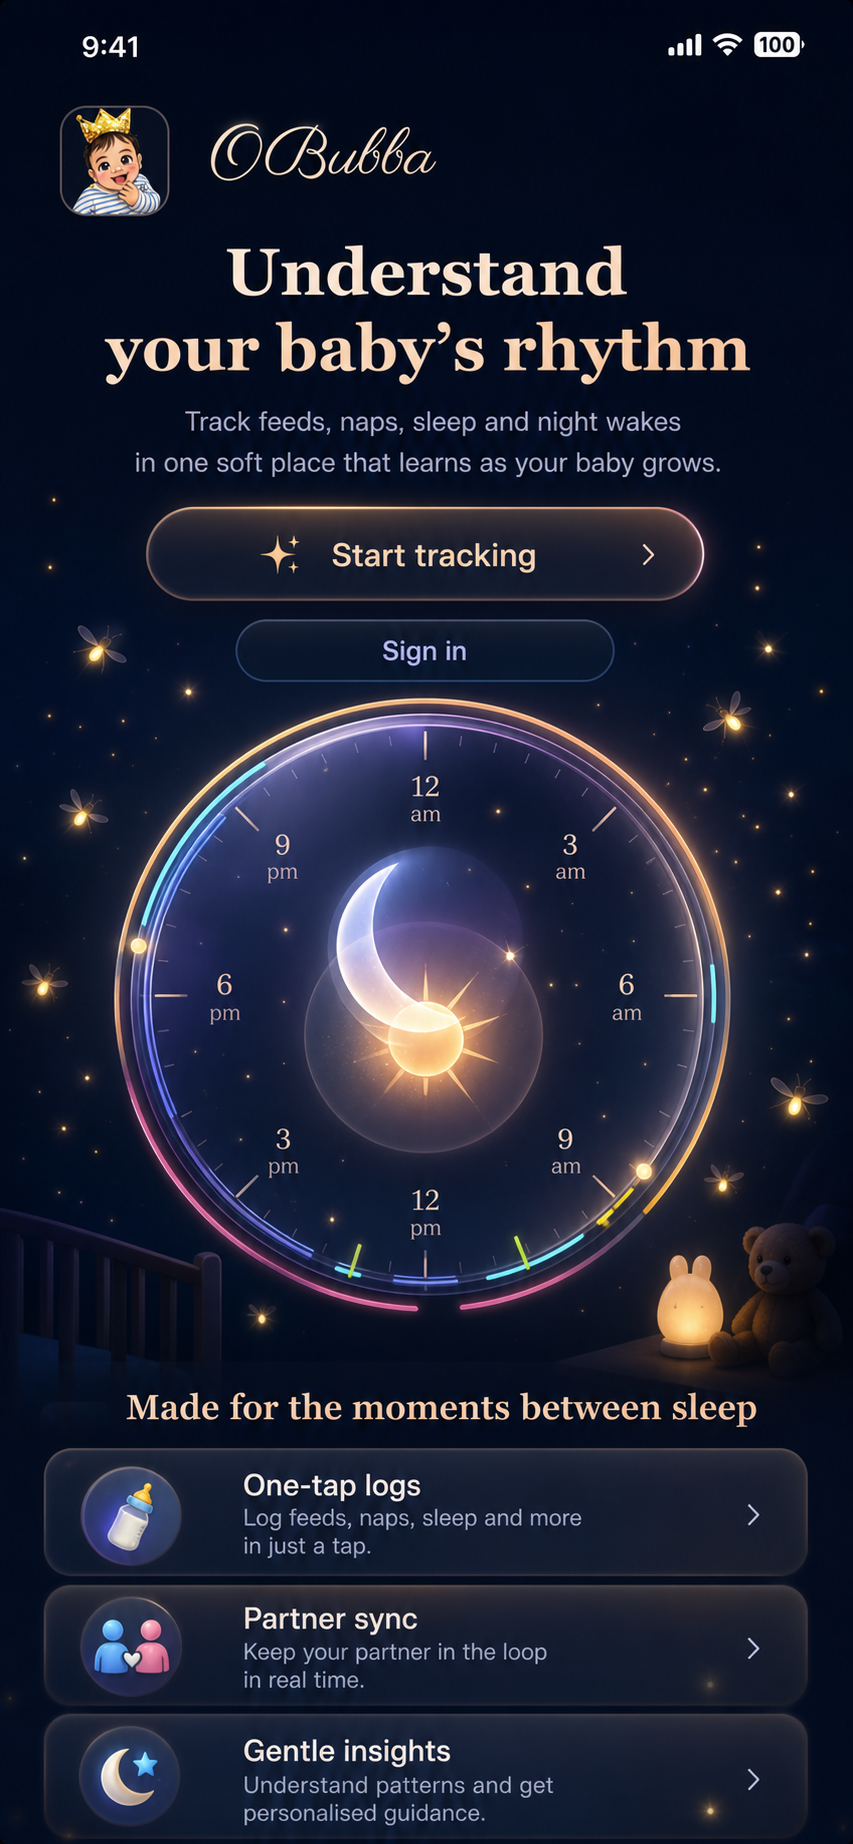
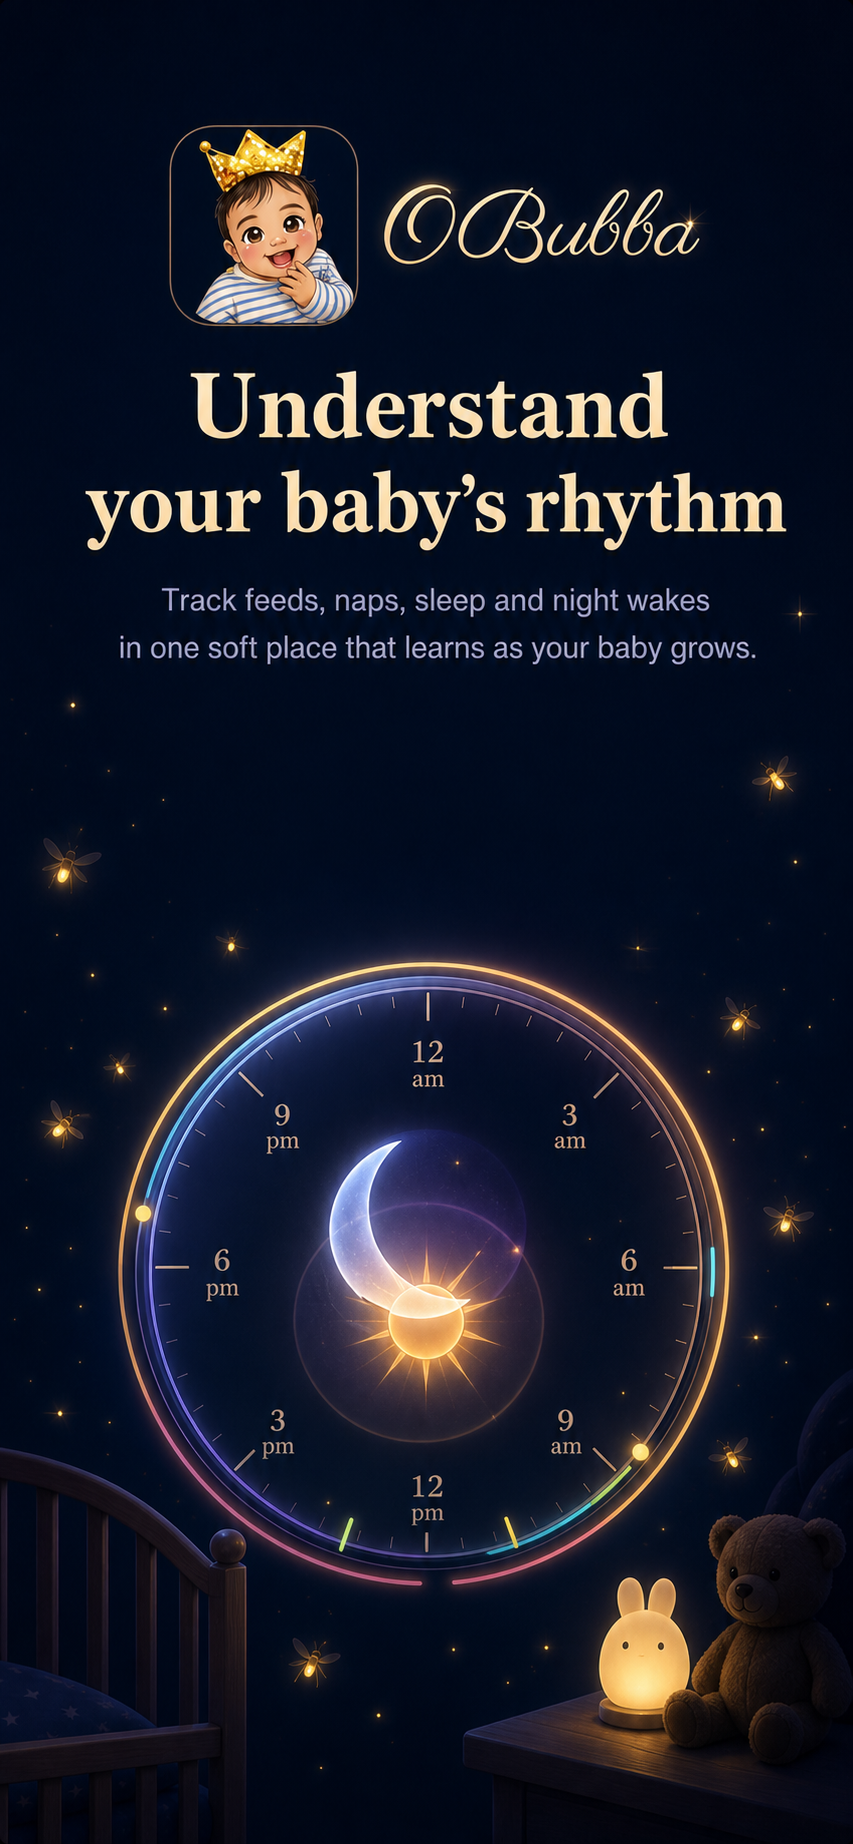
Use clean OBubba landing artwork

diff --git a/index.html b/index.html
@@ -25,23 +25,30 @@
     body{margin:0;min-height:100%;background:radial-gradient(circle at 50% 20%,rgba(33,57,112,.42),transparent 35rem),linear-gradient(180deg,#020814 0%,#06142d 54%,#020b1d 100%);color:#fff0dc;font-family:-apple-system,BlinkMacSystemFont,"Segoe UI",Roboto,Arial,sans-serif;-webkit-font-smoothing:antialiased;overflow-x:hidden}
     a{color:inherit}
     .page{min-height:100dvh}
-    .poster-shell{position:relative;width:100vw;max-width:430px;aspect-ratio:853/1450;margin:0 auto;background:#041026;box-shadow:0 0 80px rgba(14,51,116,.4);overflow:hidden}
-    .poster{display:block;width:100%;height:auto;user-select:none}
-    .download-now,.store-link{position:absolute;z-index:2;text-decoration:none;display:flex;align-items:center;justify-content:center;color:#fff3df;font-weight:900;letter-spacing:0;text-shadow:0 1px 10px rgba(0,0,0,.35)}
-    .download-now{left:17.1%;top:34.76%;width:65.8%;height:6.59%;gap:5%;border-radius:999px;border:1.6px solid rgba(232,165,145,.86);background:linear-gradient(180deg,rgb(78,89,130),rgb(32,43,78));box-shadow:inset 0 1px 0 rgba(255,255,255,.18),0 0 24px rgba(255,169,137,.25),0 16px 34px rgba(0,0,0,.3);font-size:clamp(18px,5.8vw,26px);white-space:nowrap}
+    .poster-shell{position:relative;width:100%;max-width:430px;aspect-ratio:853/1844;margin:0 auto;background:#041026;box-shadow:0 0 80px rgba(14,51,116,.4);overflow:hidden}
+    .poster{position:relative;z-index:0;display:block;width:82%;height:auto;margin:0 auto;user-select:none}
+    .float-firefly{position:absolute;z-index:2;width:7px;height:7px;border-radius:50%;background:#ffdc7a;box-shadow:0 0 13px 5px rgba(255,213,111,.58),0 0 42px 14px rgba(255,213,111,.22);pointer-events:none;animation:drift 7.5s ease-in-out infinite}
+    .float-firefly::before,.float-firefly::after{content:"";position:absolute;top:50%;width:15px;height:7px;border-radius:999px 999px 999px 0;border:1px solid rgba(255,239,207,.32);background:rgba(255,255,255,.08);filter:blur(.15px)}
+    .float-firefly::before{right:4px;transform:translateY(-55%) rotate(-28deg)}.float-firefly::after{left:4px;transform:translateY(-55%) rotate(28deg) scaleX(-1)}
+    .ff1{left:12%;top:38%;animation-delay:-1.1s}.ff2{left:86%;top:41%;animation-delay:-3.2s;transform:scale(.78)}.ff3{left:18%;top:55%;animation-delay:-4.8s;transform:scale(.7)}.ff4{left:76%;top:61%;animation-delay:-2.2s}.ff5{left:33%;top:84%;animation-delay:-5.7s;transform:scale(.68)}.ff6{left:71%;top:84%;animation-delay:-.7s;transform:scale(.74)}
+    @keyframes drift{0%,100%{translate:0 0;opacity:.72}38%{translate:10px -15px;opacity:1}70%{translate:-8px -4px;opacity:.78}}
+    .download-now,.store-link{position:absolute;z-index:4;text-decoration:none;display:flex;align-items:center;justify-content:center;color:#fff3df;font-weight:900;letter-spacing:0;text-shadow:0 1px 10px rgba(0,0,0,.35)}
+    .download-now{left:17.1%;top:39.35%;width:65.8%;height:5%;gap:5%;border-radius:999px;border:1.6px solid rgba(232,165,145,.86);background:linear-gradient(180deg,rgb(78,89,130),rgb(32,43,78));box-shadow:inset 0 1px 0 rgba(255,255,255,.18),0 0 24px rgba(255,169,137,.25),0 16px 34px rgba(0,0,0,.3);font-size:clamp(18px,5.8vw,26px);white-space:nowrap}
     .download-now .sparkle{width:clamp(30px,8.4vw,40px);height:clamp(30px,8.4vw,40px);filter:drop-shadow(0 0 13px rgba(255,221,147,.5))}
     .download-now .chevron{position:absolute;right:7%;width:clamp(18px,5vw,25px);height:clamp(18px,5vw,25px)}
-    .stores{position:absolute;z-index:3;left:13.8%;top:42.69%;width:72.4%;height:5.02%;display:grid;grid-template-columns:1fr 1fr;gap:3.8%}
+    .stores{position:absolute;z-index:5;left:13.8%;top:45.45%;width:72.4%;height:3.8%;display:grid;grid-template-columns:1fr 1fr;gap:3.8%}
     .stores::before{content:"";position:absolute;inset:-7% -2%;z-index:0;border-radius:999px;background:#071936}
     .store-link{position:relative;z-index:1;height:100%;border-radius:999px;border:1.2px solid rgba(92,124,178,.9);background:linear-gradient(180deg,rgb(19,36,76),rgb(11,25,57));box-shadow:inset 0 1px 0 rgba(255,255,255,.1),0 10px 26px rgba(0,0,0,.26);font-size:clamp(12px,3.45vw,16px);gap:8px;white-space:nowrap}
     .store-link svg{width:clamp(16px,4.3vw,22px);height:clamp(16px,4.3vw,22px)}
     .seo-copy{position:absolute;width:1px;height:1px;padding:0;margin:-1px;overflow:hidden;clip:rect(0,0,0,0);white-space:nowrap;border:0}
+    @media (max-width:520px){.poster-shell{max-width:none;margin:0}}
   </style>
 </head>
 <body>
   <main class="page">
     <div class="poster-shell">
       <img class="poster" src="/obubba-download-landing.png" alt="OBubba baby rhythm tracker preview with glowing clock and fireflies"/>
+      <span class="float-firefly ff1" aria-hidden="true"></span><span class="float-firefly ff2" aria-hidden="true"></span><span class="float-firefly ff3" aria-hidden="true"></span><span class="float-firefly ff4" aria-hidden="true"></span><span class="float-firefly ff5" aria-hidden="true"></span><span class="float-firefly ff6" aria-hidden="true"></span>
       <a class="download-now" id="download-now" href="https://apps.apple.com/gb/app/obubba/id6760968757" aria-label="Download OBubba now">
         <svg class="sparkle" viewBox="0 0 32 32" aria-hidden="true"><path fill="#ffe9a8" d="m16 2 2.9 8.7 9.1 1.2-6.8 5.7 1.9 9-7.1-4.8-7.1 4.8 1.9-9L4 11.9l9.1-1.2L16 2Z"/><path fill="#fff8df" d="M25 3.5 26 7l3.5 1-3.5 1-1 3.5L24 9l-3.5-1L24 7l1-3.5Z"/></svg>
         <span>Download now</span>

diff --git a/public/index.html b/public/index.html
@@ -25,23 +25,30 @@
     body{margin:0;min-height:100%;background:radial-gradient(circle at 50% 20%,rgba(33,57,112,.42),transparent 35rem),linear-gradient(180deg,#020814 0%,#06142d 54%,#020b1d 100%);color:#fff0dc;font-family:-apple-system,BlinkMacSystemFont,"Segoe UI",Roboto,Arial,sans-serif;-webkit-font-smoothing:antialiased;overflow-x:hidden}
     a{color:inherit}
     .page{min-height:100dvh}
-    .poster-shell{position:relative;width:100vw;max-width:430px;aspect-ratio:853/1450;margin:0 auto;background:#041026;box-shadow:0 0 80px rgba(14,51,116,.4);overflow:hidden}
-    .poster{display:block;width:100%;height:auto;user-select:none}
-    .download-now,.store-link{position:absolute;z-index:2;text-decoration:none;display:flex;align-items:center;justify-content:center;color:#fff3df;font-weight:900;letter-spacing:0;text-shadow:0 1px 10px rgba(0,0,0,.35)}
-    .download-now{left:17.1%;top:34.76%;width:65.8%;height:6.59%;gap:5%;border-radius:999px;border:1.6px solid rgba(232,165,145,.86);background:linear-gradient(180deg,rgb(78,89,130),rgb(32,43,78));box-shadow:inset 0 1px 0 rgba(255,255,255,.18),0 0 24px rgba(255,169,137,.25),0 16px 34px rgba(0,0,0,.3);font-size:clamp(18px,5.8vw,26px);white-space:nowrap}
+    .poster-shell{position:relative;width:100%;max-width:430px;aspect-ratio:853/1844;margin:0 auto;background:#041026;box-shadow:0 0 80px rgba(14,51,116,.4);overflow:hidden}
+    .poster{position:relative;z-index:0;display:block;width:82%;height:auto;margin:0 auto;user-select:none}
+    .float-firefly{position:absolute;z-index:2;width:7px;height:7px;border-radius:50%;background:#ffdc7a;box-shadow:0 0 13px 5px rgba(255,213,111,.58),0 0 42px 14px rgba(255,213,111,.22);pointer-events:none;animation:drift 7.5s ease-in-out infinite}
+    .float-firefly::before,.float-firefly::after{content:"";position:absolute;top:50%;width:15px;height:7px;border-radius:999px 999px 999px 0;border:1px solid rgba(255,239,207,.32);background:rgba(255,255,255,.08);filter:blur(.15px)}
+    .float-firefly::before{right:4px;transform:translateY(-55%) rotate(-28deg)}.float-firefly::after{left:4px;transform:translateY(-55%) rotate(28deg) scaleX(-1)}
+    .ff1{left:12%;top:38%;animation-delay:-1.1s}.ff2{left:86%;top:41%;animation-delay:-3.2s;transform:scale(.78)}.ff3{left:18%;top:55%;animation-delay:-4.8s;transform:scale(.7)}.ff4{left:76%;top:61%;animation-delay:-2.2s}.ff5{left:33%;top:84%;animation-delay:-5.7s;transform:scale(.68)}.ff6{left:71%;top:84%;animation-delay:-.7s;transform:scale(.74)}
+    @keyframes drift{0%,100%{translate:0 0;opacity:.72}38%{translate:10px -15px;opacity:1}70%{translate:-8px -4px;opacity:.78}}
+    .download-now,.store-link{position:absolute;z-index:4;text-decoration:none;display:flex;align-items:center;justify-content:center;color:#fff3df;font-weight:900;letter-spacing:0;text-shadow:0 1px 10px rgba(0,0,0,.35)}
+    .download-now{left:17.1%;top:39.35%;width:65.8%;height:5%;gap:5%;border-radius:999px;border:1.6px solid rgba(232,165,145,.86);background:linear-gradient(180deg,rgb(78,89,130),rgb(32,43,78));box-shadow:inset 0 1px 0 rgba(255,255,255,.18),0 0 24px rgba(255,169,137,.25),0 16px 34px rgba(0,0,0,.3);font-size:clamp(18px,5.8vw,26px);white-space:nowrap}
     .download-now .sparkle{width:clamp(30px,8.4vw,40px);height:clamp(30px,8.4vw,40px);filter:drop-shadow(0 0 13px rgba(255,221,147,.5))}
     .download-now .chevron{position:absolute;right:7%;width:clamp(18px,5vw,25px);height:clamp(18px,5vw,25px)}
-    .stores{position:absolute;z-index:3;left:13.8%;top:42.69%;width:72.4%;height:5.02%;display:grid;grid-template-columns:1fr 1fr;gap:3.8%}
+    .stores{position:absolute;z-index:5;left:13.8%;top:45.45%;width:72.4%;height:3.8%;display:grid;grid-template-columns:1fr 1fr;gap:3.8%}
     .stores::before{content:"";position:absolute;inset:-7% -2%;z-index:0;border-radius:999px;background:#071936}
     .store-link{position:relative;z-index:1;height:100%;border-radius:999px;border:1.2px solid rgba(92,124,178,.9);background:linear-gradient(180deg,rgb(19,36,76),rgb(11,25,57));box-shadow:inset 0 1px 0 rgba(255,255,255,.1),0 10px 26px rgba(0,0,0,.26);font-size:clamp(12px,3.45vw,16px);gap:8px;white-space:nowrap}
     .store-link svg{width:clamp(16px,4.3vw,22px);height:clamp(16px,4.3vw,22px)}
     .seo-copy{position:absolute;width:1px;height:1px;padding:0;margin:-1px;overflow:hidden;clip:rect(0,0,0,0);white-space:nowrap;border:0}
+    @media (max-width:520px){.poster-shell{max-width:none;margin:0}}
   </style>
 </head>
 <body>
   <main class="page">
     <div class="poster-shell">
       <img class="poster" src="/obubba-download-landing.png" alt="OBubba baby rhythm tracker preview with glowing clock and fireflies"/>
+      <span class="float-firefly ff1" aria-hidden="true"></span><span class="float-firefly ff2" aria-hidden="true"></span><span class="float-firefly ff3" aria-hidden="true"></span><span class="float-firefly ff4" aria-hidden="true"></span><span class="float-firefly ff5" aria-hidden="true"></span><span class="float-firefly ff6" aria-hidden="true"></span>
       <a class="download-now" id="download-now" href="https://apps.apple.com/gb/app/obubba/id6760968757" aria-label="Download OBubba now">
         <svg class="sparkle" viewBox="0 0 32 32" aria-hidden="true"><path fill="#ffe9a8" d="m16 2 2.9 8.7 9.1 1.2-6.8 5.7 1.9 9-7.1-4.8-7.1 4.8 1.9-9L4 11.9l9.1-1.2L16 2Z"/><path fill="#fff8df" d="M25 3.5 26 7l3.5 1-3.5 1-1 3.5L24 9l-3.5-1L24 7l1-3.5Z"/></svg>
         <span>Download now</span>

diff --git a/public/landing.html b/public/landing.html
@@ -25,23 +25,30 @@
     body{margin:0;min-height:100%;background:radial-gradient(circle at 50% 20%,rgba(33,57,112,.42),transparent 35rem),linear-gradient(180deg,#020814 0%,#06142d 54%,#020b1d 100%);color:#fff0dc;font-family:-apple-system,BlinkMacSystemFont,"Segoe UI",Roboto,Arial,sans-serif;-webkit-font-smoothing:antialiased;overflow-x:hidden}
     a{color:inherit}
     .page{min-height:100dvh}
-    .poster-shell{position:relative;width:100vw;max-width:430px;aspect-ratio:853/1450;margin:0 auto;background:#041026;box-shadow:0 0 80px rgba(14,51,116,.4);overflow:hidden}
-    .poster{display:block;width:100%;height:auto;user-select:none}
-    .download-now,.store-link{position:absolute;z-index:2;text-decoration:none;display:flex;align-items:center;justify-content:center;color:#fff3df;font-weight:900;letter-spacing:0;text-shadow:0 1px 10px rgba(0,0,0,.35)}
-    .download-now{left:17.1%;top:34.76%;width:65.8%;height:6.59%;gap:5%;border-radius:999px;border:1.6px solid rgba(232,165,145,.86);background:linear-gradient(180deg,rgb(78,89,130),rgb(32,43,78));box-shadow:inset 0 1px 0 rgba(255,255,255,.18),0 0 24px rgba(255,169,137,.25),0 16px 34px rgba(0,0,0,.3);font-size:clamp(18px,5.8vw,26px);white-space:nowrap}
+    .poster-shell{position:relative;width:100%;max-width:430px;aspect-ratio:853/1844;margin:0 auto;background:#041026;box-shadow:0 0 80px rgba(14,51,116,.4);overflow:hidden}
+    .poster{position:relative;z-index:0;display:block;width:82%;height:auto;margin:0 auto;user-select:none}
+    .float-firefly{position:absolute;z-index:2;width:7px;height:7px;border-radius:50%;background:#ffdc7a;box-shadow:0 0 13px 5px rgba(255,213,111,.58),0 0 42px 14px rgba(255,213,111,.22);pointer-events:none;animation:drift 7.5s ease-in-out infinite}
+    .float-firefly::before,.float-firefly::after{content:"";position:absolute;top:50%;width:15px;height:7px;border-radius:999px 999px 999px 0;border:1px solid rgba(255,239,207,.32);background:rgba(255,255,255,.08);filter:blur(.15px)}
+    .float-firefly::before{right:4px;transform:translateY(-55%) rotate(-28deg)}.float-firefly::after{left:4px;transform:translateY(-55%) rotate(28deg) scaleX(-1)}
+    .ff1{left:12%;top:38%;animation-delay:-1.1s}.ff2{left:86%;top:41%;animation-delay:-3.2s;transform:scale(.78)}.ff3{left:18%;top:55%;animation-delay:-4.8s;transform:scale(.7)}.ff4{left:76%;top:61%;animation-delay:-2.2s}.ff5{left:33%;top:84%;animation-delay:-5.7s;transform:scale(.68)}.ff6{left:71%;top:84%;animation-delay:-.7s;transform:scale(.74)}
+    @keyframes drift{0%,100%{translate:0 0;opacity:.72}38%{translate:10px -15px;opacity:1}70%{translate:-8px -4px;opacity:.78}}
+    .download-now,.store-link{position:absolute;z-index:4;text-decoration:none;display:flex;align-items:center;justify-content:center;color:#fff3df;font-weight:900;letter-spacing:0;text-shadow:0 1px 10px rgba(0,0,0,.35)}
+    .download-now{left:17.1%;top:39.35%;width:65.8%;height:5%;gap:5%;border-radius:999px;border:1.6px solid rgba(232,165,145,.86);background:linear-gradient(180deg,rgb(78,89,130),rgb(32,43,78));box-shadow:inset 0 1px 0 rgba(255,255,255,.18),0 0 24px rgba(255,169,137,.25),0 16px 34px rgba(0,0,0,.3);font-size:clamp(18px,5.8vw,26px);white-space:nowrap}
     .download-now .sparkle{width:clamp(30px,8.4vw,40px);height:clamp(30px,8.4vw,40px);filter:drop-shadow(0 0 13px rgba(255,221,147,.5))}
     .download-now .chevron{position:absolute;right:7%;width:clamp(18px,5vw,25px);height:clamp(18px,5vw,25px)}
-    .stores{position:absolute;z-index:3;left:13.8%;top:42.69%;width:72.4%;height:5.02%;display:grid;grid-template-columns:1fr 1fr;gap:3.8%}
+    .stores{position:absolute;z-index:5;left:13.8%;top:45.45%;width:72.4%;height:3.8%;display:grid;grid-template-columns:1fr 1fr;gap:3.8%}
     .stores::before{content:"";position:absolute;inset:-7% -2%;z-index:0;border-radius:999px;background:#071936}
     .store-link{position:relative;z-index:1;height:100%;border-radius:999px;border:1.2px solid rgba(92,124,178,.9);background:linear-gradient(180deg,rgb(19,36,76),rgb(11,25,57));box-shadow:inset 0 1px 0 rgba(255,255,255,.1),0 10px 26px rgba(0,0,0,.26);font-size:clamp(12px,3.45vw,16px);gap:8px;white-space:nowrap}
     .store-link svg{width:clamp(16px,4.3vw,22px);height:clamp(16px,4.3vw,22px)}
     .seo-copy{position:absolute;width:1px;height:1px;padding:0;margin:-1px;overflow:hidden;clip:rect(0,0,0,0);white-space:nowrap;border:0}
+    @media (max-width:520px){.poster-shell{max-width:none;margin:0}}
   </style>
 </head>
 <body>
   <main class="page">
     <div class="poster-shell">
       <img class="poster" src="/obubba-download-landing.png" alt="OBubba baby rhythm tracker preview with glowing clock and fireflies"/>
+      <span class="float-firefly ff1" aria-hidden="true"></span><span class="float-firefly ff2" aria-hidden="true"></span><span class="float-firefly ff3" aria-hidden="true"></span><span class="float-firefly ff4" aria-hidden="true"></span><span class="float-firefly ff5" aria-hidden="true"></span><span class="float-firefly ff6" aria-hidden="true"></span>
       <a class="download-now" id="download-now" href="https://apps.apple.com/gb/app/obubba/id6760968757" aria-label="Download OBubba now">
         <svg class="sparkle" viewBox="0 0 32 32" aria-hidden="true"><path fill="#ffe9a8" d="m16 2 2.9 8.7 9.1 1.2-6.8 5.7 1.9 9-7.1-4.8-7.1 4.8 1.9-9L4 11.9l9.1-1.2L16 2Z"/><path fill="#fff8df" d="M25 3.5 26 7l3.5 1-3.5 1-1 3.5L24 9l-3.5-1L24 7l1-3.5Z"/></svg>
         <span>Download now</span>
